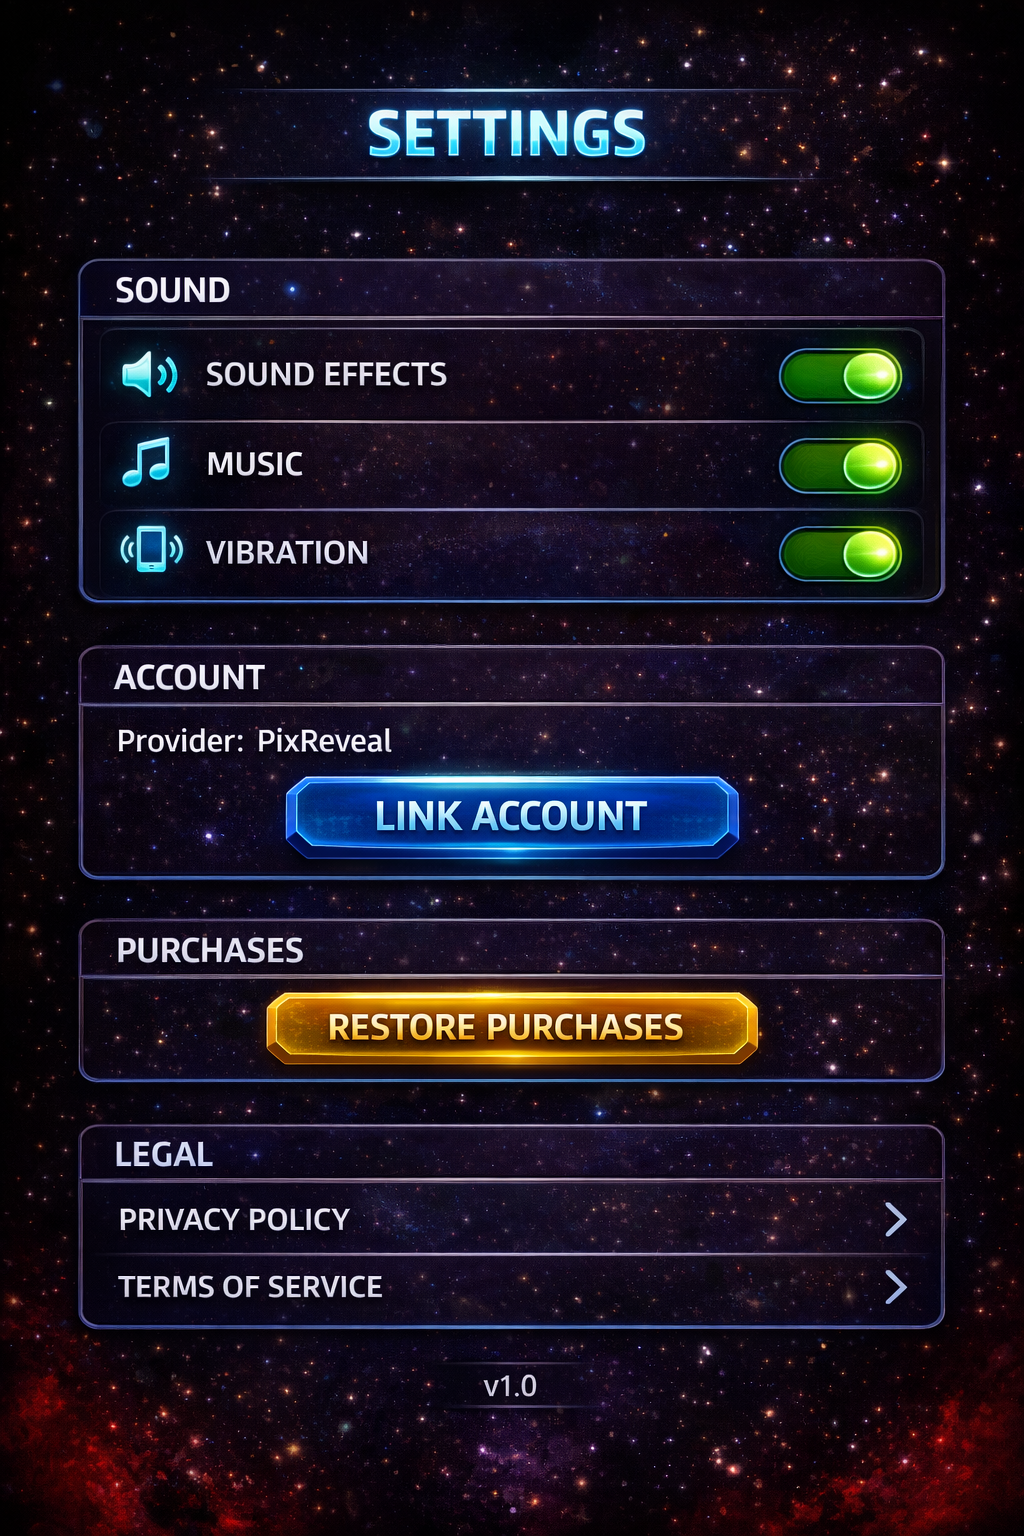
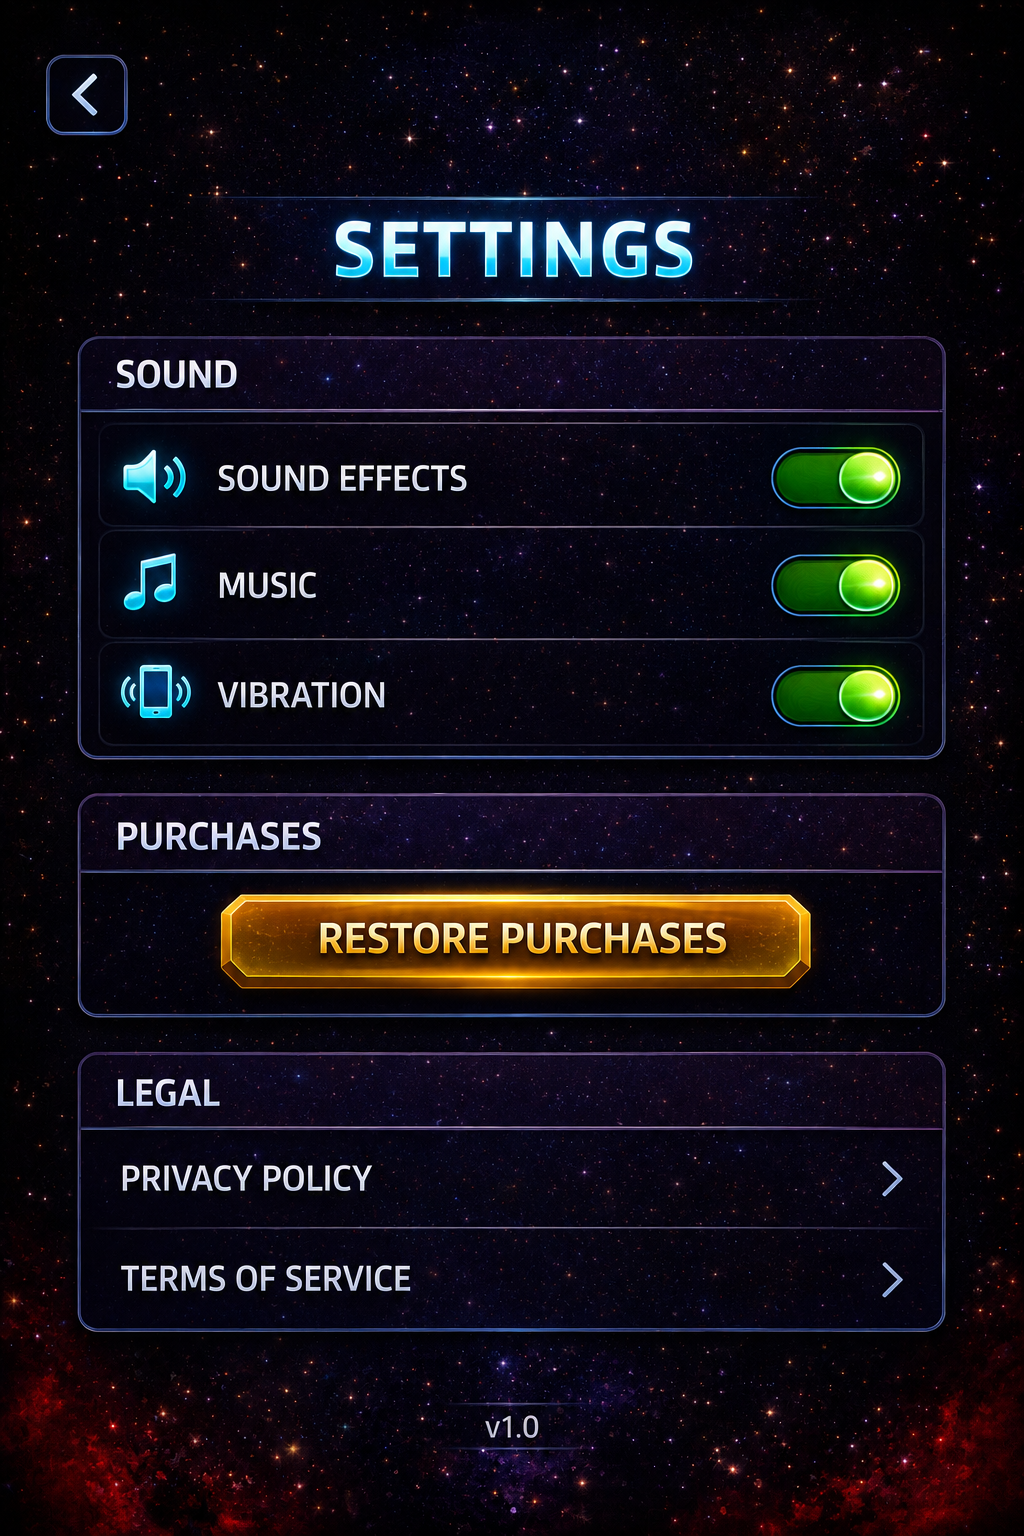
feat: new settings PNG + recalibrated hotspots (ACCOUNT removed)

diff --git a/mobile/lib/constants/hotspots.dart b/mobile/lib/constants/hotspots.dart
@@ -91,13 +91,15 @@ const Map<String, List<Hotspot>> kHotspots = {
   // restore: y=66.85
   // privacy: y=78.9
   // terms: y=84.25
+  // ─── SETTINGS (calibrated 2026-06-27) ────────────────────────
+  // sfx y=30.8, music y=38.4, vibe y=45.2, restore y=60.4, privacy y=76.3, terms y=83.4
   'settings': [
-    Hotspot(id: 'sfx',       x: 68, y: 21, w: 28, h: 7, target: 'toggle-sfx',       label: 'SFX'),
-    Hotspot(id: 'music',     x: 68, y: 27, w: 28, h: 7, target: 'toggle-music',     label: 'Music'),
-    Hotspot(id: 'vibe',      x: 68, y: 33, w: 28, h: 7, target: 'toggle-vibration', label: 'Vibe'),
-    Hotspot(id: 'restore',   x: 14, y: 63, w: 72, h: 8, target: 'none',             label: 'Restore'),
-    Hotspot(id: 'privacy',   x: 4,  y: 75, w: 92, h: 8, target: 'none',             label: 'Privacy'),
-    Hotspot(id: 'terms',     x: 4,  y: 80, w: 92, h: 8, target: 'none',             label: 'Terms'),
+    Hotspot(id: 'sfx',     x: 65, y: 27.3, w: 28, h: 7, target: 'toggle-sfx',       label: 'SFX'),
+    Hotspot(id: 'music',   x: 65, y: 34.9, w: 28, h: 7, target: 'toggle-music',     label: 'Music'),
+    Hotspot(id: 'vibe',    x: 62, y: 41.7, w: 28, h: 7, target: 'toggle-vibration', label: 'Vibe'),
+    Hotspot(id: 'restore', x: 10, y: 56.4, w: 72, h: 8, target: 'none',             label: 'Restore'),
+    Hotspot(id: 'privacy', x: 4,  y: 72.3, w: 92, h: 8, target: 'none',             label: 'Privacy'),
+    Hotspot(id: 'terms',   x: 4,  y: 79.4, w: 92, h: 8, target: 'none',             label: 'Terms'),
   ],
 
   'countdown': [],

diff --git a/mobile/lib/screens/settings_screen.dart b/mobile/lib/screens/settings_screen.dart
@@ -40,19 +40,9 @@ class _SettingsScreenState extends State<SettingsScreen> {
                 },
                 onNavigate: (target, id) => _navigate(target, id),
                 overlayBuilder: (size) => [
-                  if (!sfx) _toggleOffOverlay(size, yPercent: 24.4),
-                  if (!music) _toggleOffOverlay(size, yPercent: 30.3),
-                  if (!vibration) _toggleOffOverlay(size, yPercent: 35.8),
-                  // ACCOUNT section (LINK ACCOUNT) — v1.0 hesapsız, PNG üzeri kapatıldı
-                  Positioned(
-                    left: 0,
-                    top: size.height * 0.375,
-                    width: size.width,
-                    height: size.height * 0.225,
-                    child: const IgnorePointer(
-                      child: ColoredBox(color: Color(0xFF050510)),
-                    ),
-                  ),
+                  if (!sfx) _toggleOffOverlay(size, yPercent: 30.8),
+                  if (!music) _toggleOffOverlay(size, yPercent: 38.4),
+                  if (!vibration) _toggleOffOverlay(size, yPercent: 45.2),
                 ],
               ),
             ),
